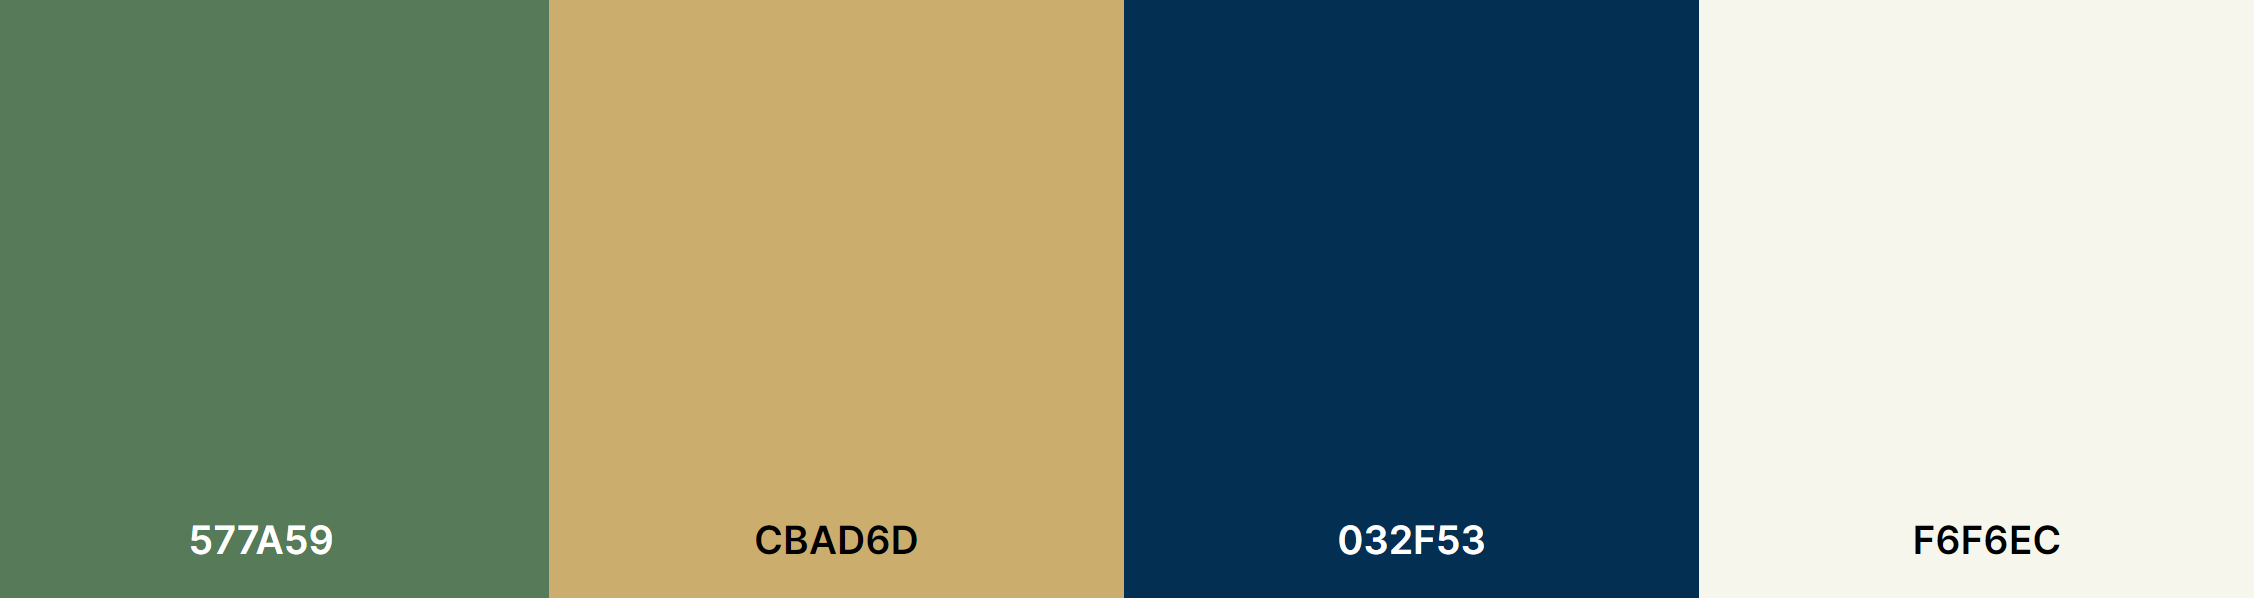
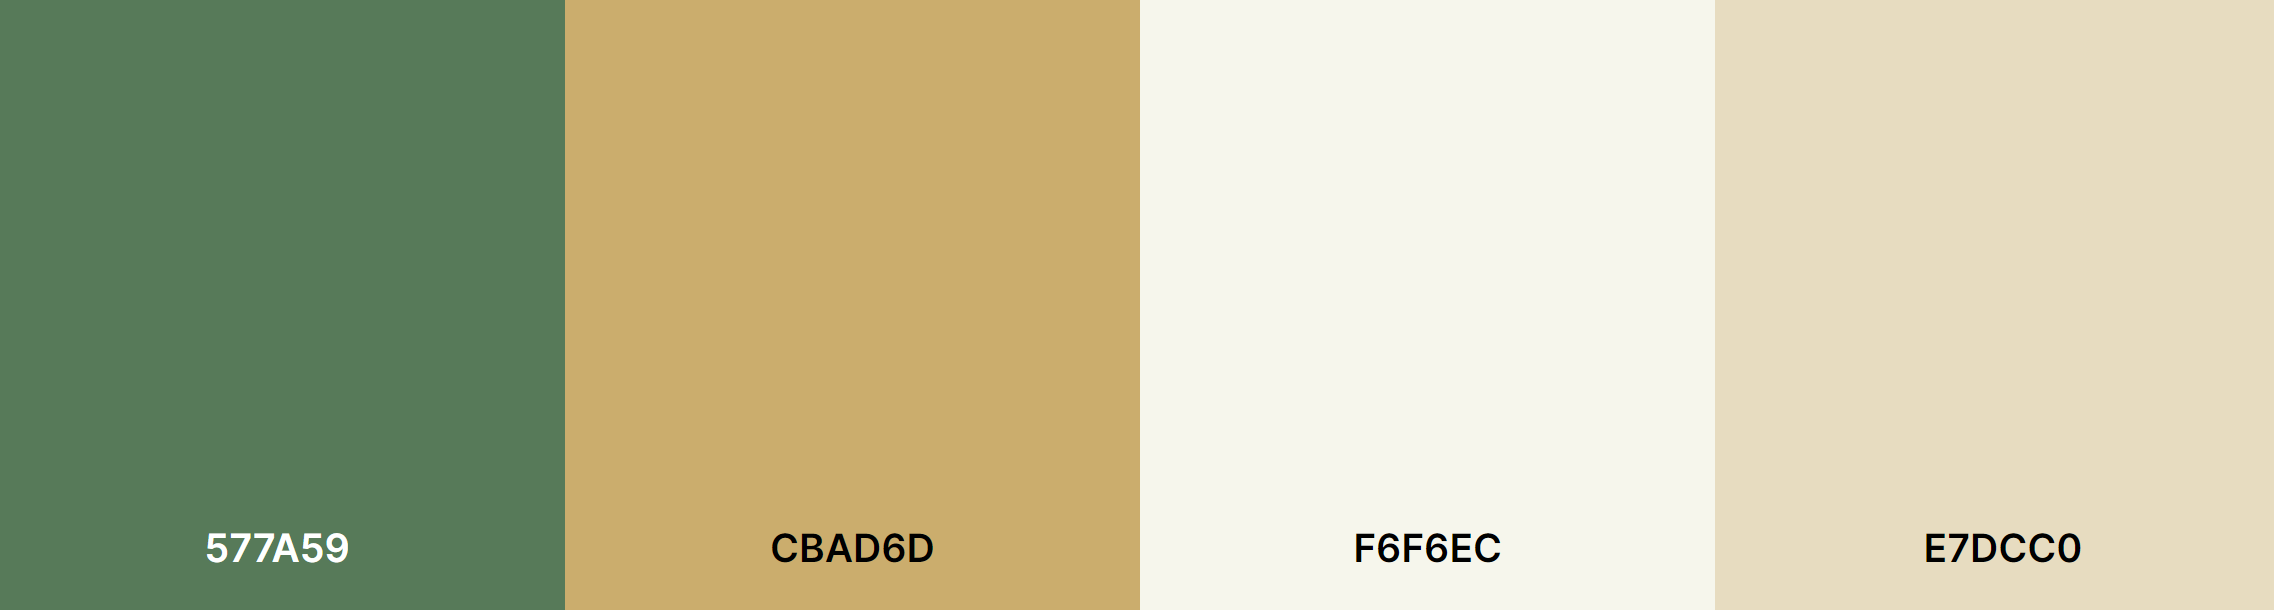
Update README color scheme

diff --git a/assets/css/style.css b/assets/css/style.css
@@ -227,7 +227,7 @@ header {
     width: 100%;
     height: 300px;
     background-attachment: fixed;
-    background-position: bottom;
+    background-position: center;
     background-repeat: no-repeat;
     background-size: cover;
     padding: 20px;

diff --git a/README.md b/README.md
@@ -115,8 +115,9 @@ ___
 
 * #577A59 and it's neighboring shades are used on the header/hero image as well as on complementary images and footer. 
 * #CBAD6D is used as an accent color for buttons and to highlight certain objects such as the multivitamin on the hero image.
-* #032F53 is used as a secondary background color for some sections.
-* #F6F6EC is used as font color for dark backgrounds and as a primary background color for some sections. 
+* #F6F6EC is used as font color for dark backgrounds and as a primary background color for some sections on desktop screens. 
+* #E7DCC0 is used as a secondary background color for some sections.
+
 
 <br>
 
